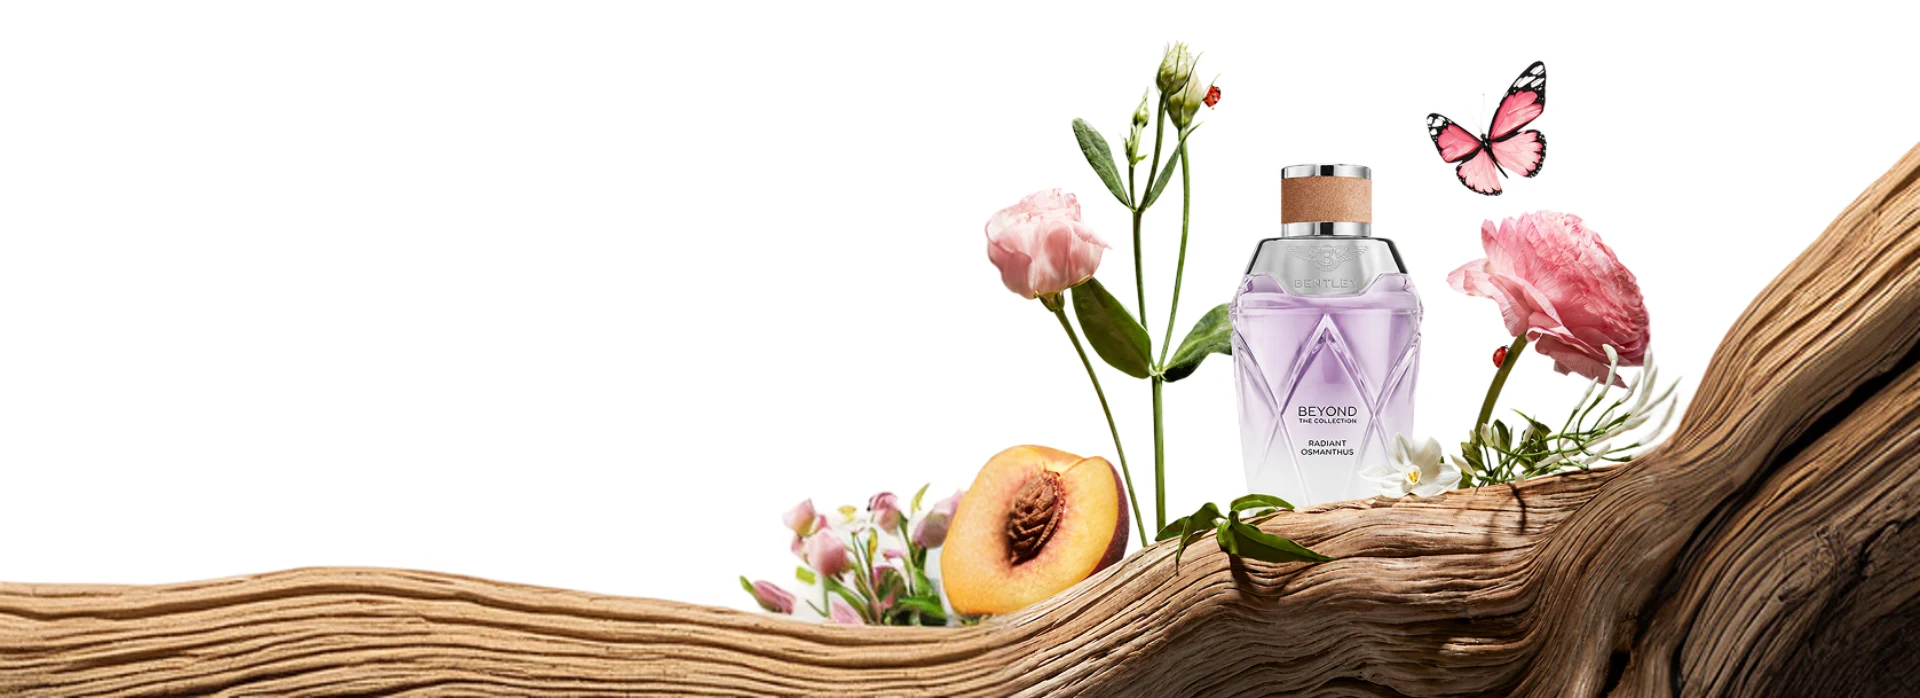
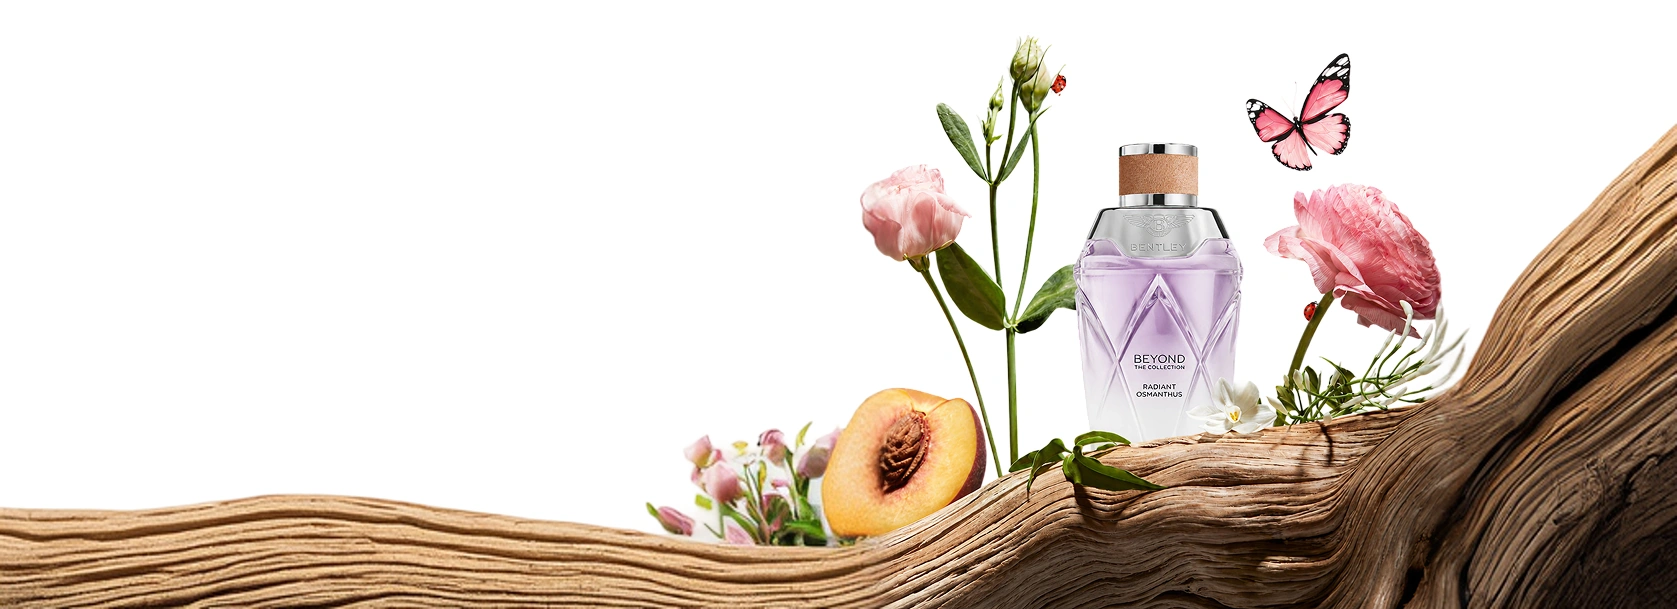
fix(try/botanical): hi-res bg video, showcase links, single compound CTA
- bg video rebuilt from source at native 1780x1160 CRF19 (~13x bitrate);
  stay.webp re-encoded from source PNG at native res q95 (was upscaled);
  bottle images verified byte-identical to originals, untouched
- CTA + all footer/social links -> try.rhythmiqcx.com
- 'Buy collection' pill + arrow chip merged into one anchor with hover
  slide (was two overlapping links to the same href)

diff --git a/src/components/try/templates/beauty/luxury-botanical.tsx b/src/components/try/templates/beauty/luxury-botanical.tsx
@@ -241,13 +241,15 @@ function Footer({ brand }: { brand: string }) {
     viewport: { once: true, amount: 0.3 },
     transition: { duration: 1, ease: "easeOut" },
   } as const;
+  // Demo site: footer destinations stay inside our properties.
+  const LINK_HREF = "https://try.rhythmiqcx.com";
   const Column = ({ heading, items }: { heading: string; items: string[] }) => (
     <div>
       <div className="mb-5 text-black/55" style={{ fontFamily: SANS, fontSize: 11, fontWeight: 500, letterSpacing: "0.3em", textTransform: "uppercase" }}>{heading}</div>
       <ul className="space-y-3">
         {items.map((l) => (
           <li key={l}>
-            <a href="#" className="hover:underline" style={{ fontFamily: SANS, fontSize: 15, fontWeight: 400, color: "rgba(0,0,0,0.85)" }}>{l}</a>
+            <a href={LINK_HREF} className="hover:underline" style={{ fontFamily: SANS, fontSize: 15, fontWeight: 400, color: "rgba(0,0,0,0.85)" }}>{l}</a>
           </li>
         ))}
       </ul>
@@ -272,11 +274,11 @@ function Footer({ brand }: { brand: string }) {
         <motion.div {...blurUp} transition={{ duration: 0.9, ease: "easeOut", delay: 0.25 }} className="flex flex-col items-start justify-between gap-6 border-t border-black/15 pt-8 md:flex-row md:items-center">
           <div className="text-black/55" style={{ fontFamily: SANS, fontSize: 11, fontWeight: 500, letterSpacing: "0.3em", textTransform: "uppercase" }}>© 2026 {brand}</div>
           <div className="flex items-center gap-5" style={{ fontFamily: SANS, fontSize: 11, fontWeight: 500, letterSpacing: "0.28em", textTransform: "uppercase" }}>
-            <a href="#" className="hover:underline">Instagram</a>
+            <a href={LINK_HREF} className="hover:underline">Instagram</a>
             <span className="text-black/30">·</span>
-            <a href="#" className="hover:underline">TikTok</a>
+            <a href={LINK_HREF} className="hover:underline">TikTok</a>
             <span className="text-black/30">·</span>
-            <a href="#" className="hover:underline">Spotify</a>
+            <a href={LINK_HREF} className="hover:underline">Spotify</a>
           </div>
           <div className="text-black/55" style={{ fontFamily: SANS, fontSize: 11, fontWeight: 500, letterSpacing: "0.3em", textTransform: "uppercase" }}>EN · USD</div>
         </motion.div>
@@ -406,10 +408,14 @@ const LuxuryBotanical = ({ data }: { data: Prospect }) => {
 
             <div className="pointer-events-auto absolute bottom-16 right-[6vw] z-10 flex flex-col items-start md:right-[10vw]">
               <motion.p className="mb-6 w-[240px] cursor-text text-left" style={{ fontFamily: SERIF, fontSize: 16, textTransform: "uppercase", letterSpacing: "0.2em", color: "#000", lineHeight: "20px", y: yElement, filter: filterText, opacity: textOpacity }}>{data.business.oneLiner}</motion.p>
-              <motion.div className="pointer-events-auto flex items-center gap-0" style={{ y: yElement, filter: filterText, opacity: textOpacity }}>
-                <a href={cta.href} {...ext} className="z-10 rounded-[40px] bg-black px-8 py-3.5 uppercase text-white no-underline transition-colors hover:bg-black/90" style={{ fontFamily: SERIF, letterSpacing: "0.1em", fontSize: 14 }}>Buy collection</a>
-                <a href={cta.href} {...ext} className="z-0 -ml-2 flex h-[46px] w-[46px] items-center justify-center rounded-full bg-black text-white no-underline">
-                  <svg width="20" height="20" viewBox="0 0 24 24" fill="none" stroke="currentColor" strokeWidth="1.5" strokeLinecap="round" strokeLinejoin="round" className="ml-1"><path d="M5 12h14M12 5l7 7-7 7" /></svg>
+              <motion.div className="pointer-events-auto" style={{ y: yElement, filter: filterText, opacity: textOpacity }}>
+                {/* Single CTA: pill + arrow chip are one link (the source design drew
+                    them as two overlapping anchors to the same href). */}
+                <a href={cta.href} {...ext} className="group flex w-fit items-center gap-1.5 no-underline">
+                  <span className="rounded-[40px] bg-black px-8 py-3.5 uppercase text-white transition-colors group-hover:bg-black/90" style={{ fontFamily: SERIF, letterSpacing: "0.1em", fontSize: 14 }}>Buy collection</span>
+                  <span className="flex h-[46px] w-[46px] items-center justify-center rounded-full bg-black text-white transition-transform duration-300 ease-out group-hover:translate-x-1">
+                    <svg width="20" height="20" viewBox="0 0 24 24" fill="none" stroke="currentColor" strokeWidth="1.5" strokeLinecap="round" strokeLinejoin="round"><path d="M5 12h14M12 5l7 7-7 7" /></svg>
+                  </span>
                 </a>
               </motion.div>
             </div>